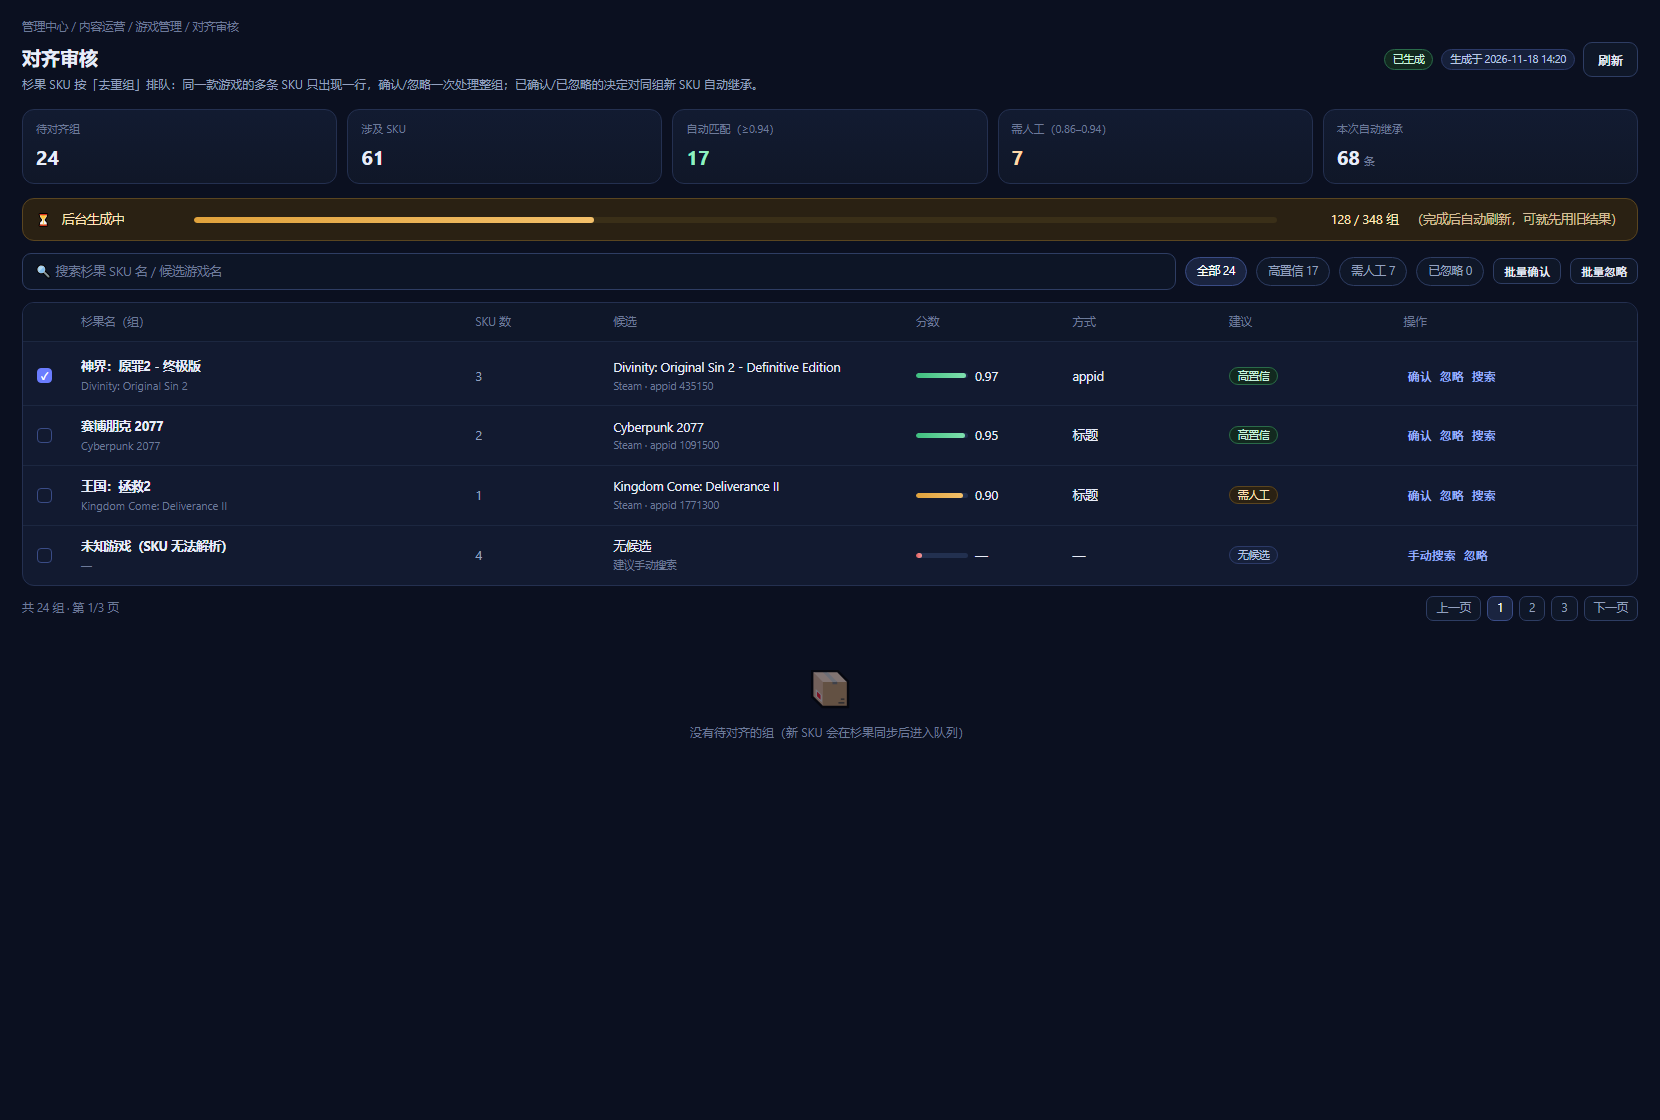
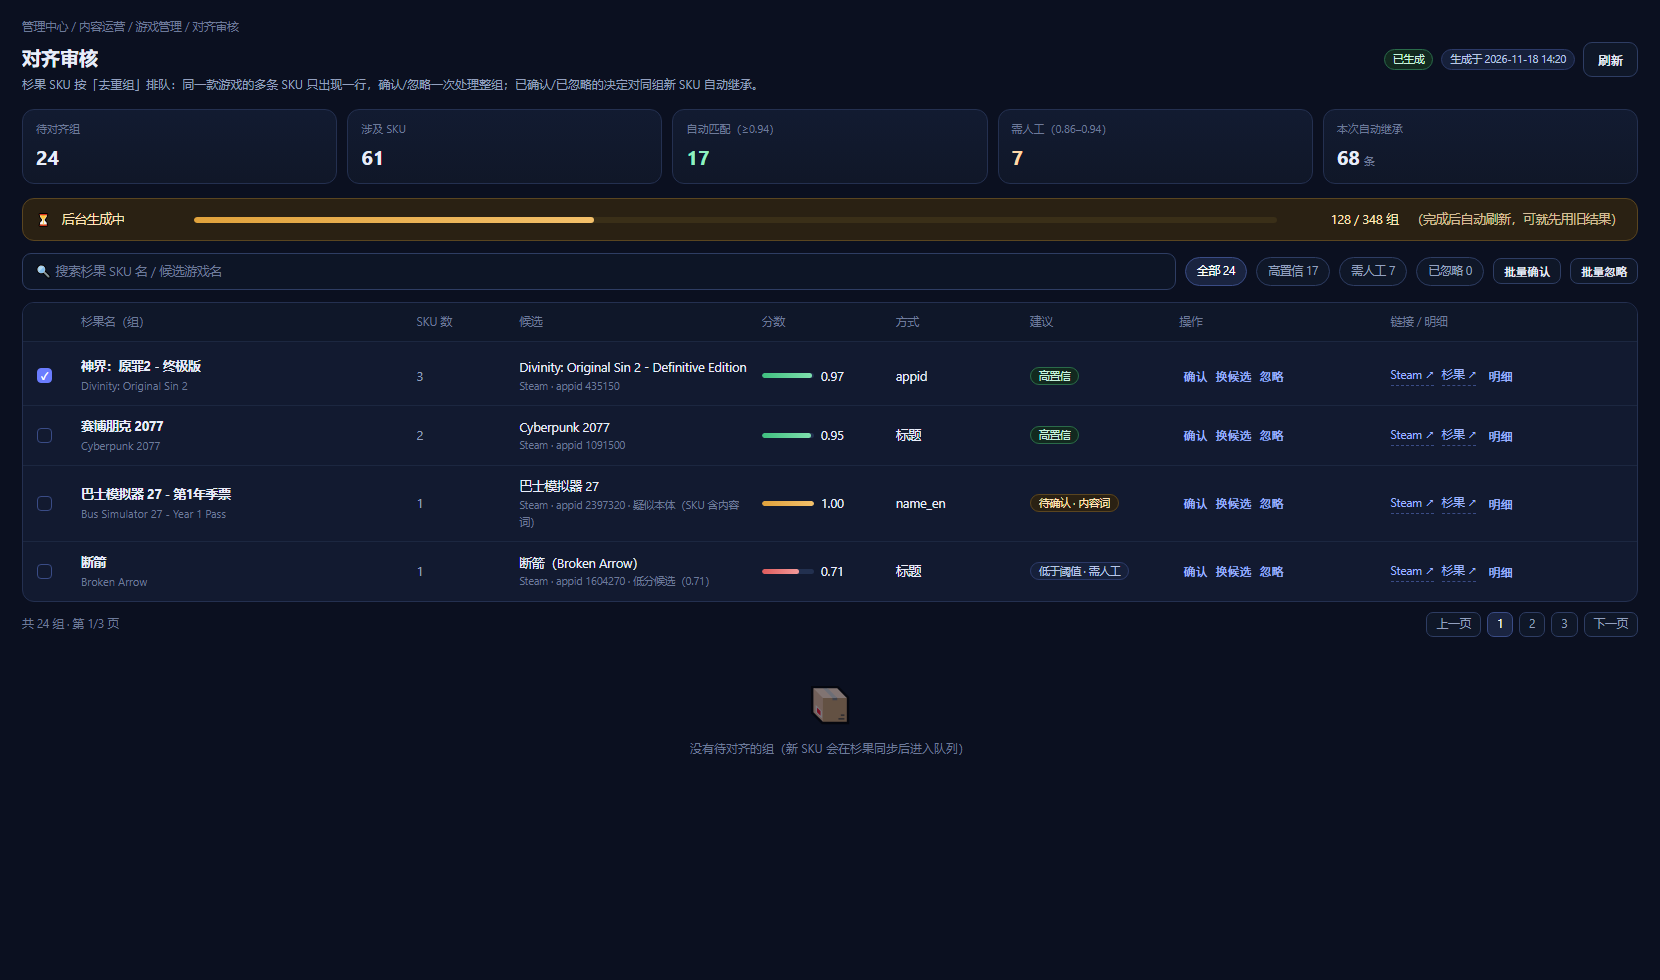
docs(design): 对齐审核改版补 Steam/杉果链接列 + 候选明细面板（供人工判定匹配）

diff --git a/docs/design/align-review-redesign-2026-11-18.html b/docs/design/align-review-redesign-2026-11-18.html
@@ -32,7 +32,7 @@
   .chip{border:1px solid var(--border-2);background:#0f1728;color:var(--fg-muted);border-radius:999px;padding:4px 11px;font-size:11.5px;cursor:pointer}
   .chip.on{background:#1a2440;color:#fff;border-color:#3a4c86}
   .table{background:var(--panel);border:1px solid var(--border);border-radius:12px;overflow:hidden}
-  .tr{display:grid;grid-template-columns:34px 2.1fr .7fr 1.6fr .8fr .8fr .9fr 1.2fr;gap:10px;align-items:center;padding:10px 14px;border-bottom:1px solid #1c2740;font-size:12.5px}
+  .tr{display:grid;grid-template-columns:34px 2.1fr .6fr 1.5fr .8fr .8fr .9fr 1.3fr 1.5fr;gap:10px;align-items:center;padding:10px 14px;border-bottom:1px solid #1c2740;font-size:12.5px}
   .tr.head{background:#0f1729;color:var(--fg-subtle);font-size:11.5px}
   .tr:last-child{border-bottom:0}
   .cb{width:15px;height:15px;border-radius:4px;border:1px solid #3a4c86;display:inline-block}
@@ -57,6 +57,7 @@
   .pg.on{background:#1a2440;color:#fff;border-color:#3a4c86}
   .empty{display:flex;flex-direction:column;align-items:center;justify-content:center;gap:8px;padding:38px 0;color:var(--fg-subtle);font-size:12px}
   .empty .ico{font-size:34px;opacity:.5}
+.links{display:flex;gap:8px;align-items:center}.lnk{color:#9fb4ff;font-size:11.5px;text-decoration:none;border-bottom:1px dashed #3a4c86}.lnk:hover{color:#c9d6ff}
 </style>
 </head>
 <body>
@@ -99,7 +100,7 @@
   </div>
 
   <div class="table">
-    <div class="tr head"><span></span><span>杉果名（组）</span><span>SKU 数</span><span>候选</span><span>分数</span><span>方式</span><span>建议</span><span>操作</span></div>
+        <div class="tr head"><span></span><span>杉果名（组）</span><span>SKU 数</span><span>候选</span><span>分数</span><span>方式</span><span>建议</span><span>操作</span><span>链接 / 明细</span></div>
     <div class="tr">
       <span class="cb on"></span>
       <div class="gname"><b>神界：原罪2 - 终极版</b><div class="en">Divinity: Original Sin 2</div></div>
@@ -108,7 +109,8 @@
       <div class="score"><div class="b"><i class="hi" style="width:97%"></i></div><span>0.97</span></div>
       <span>appid</span>
       <span class="sug"><span class="tag ok">高置信</span></span>
-      <span><button class="btn-link">确认</button><button class="btn-link">忽略</button><button class="btn-link">搜索</button></span>
+      <span><button class="btn-link">确认</button><button class="btn-link">换候选</button><button class="btn-link">忽略</button></span>
+      <span class="links"><a href="#" class="lnk">Steam ↗</a><a href="#" class="lnk">杉果 ↗</a><button class="btn-link">明细</button></span>
     </div>
     <div class="tr">
       <span class="cb"></span>
@@ -118,31 +120,34 @@
       <div class="score"><div class="b"><i class="hi" style="width:95%"></i></div><span>0.95</span></div>
       <span>标题</span>
       <span class="sug"><span class="tag ok">高置信</span></span>
-      <span><button class="btn-link">确认</button><button class="btn-link">忽略</button><button class="btn-link">搜索</button></span>
+      <span><button class="btn-link">确认</button><button class="btn-link">换候选</button><button class="btn-link">忽略</button></span>
+      <span class="links"><a href="#" class="lnk">Steam ↗</a><a href="#" class="lnk">杉果 ↗</a><button class="btn-link">明细</button></span>
     </div>
     <div class="tr">
       <span class="cb"></span>
-      <div class="gname"><b>王国：拯救2</b><div class="en">Kingdom Come: Deliverance II</div></div>
+      <div class="gname"><b>巴士模拟器 27 - 第1年季票</b><div class="en">Bus Simulator 27 - Year 1 Pass</div></div>
       <span class="sku">1</span>
-      <div class="cand"><div class="n">Kingdom Come: Deliverance II</div><div class="m">Steam · appid 1771300</div></div>
-      <div class="score"><div class="b"><i class="mid" style="width:90%"></i></div><span>0.90</span></div>
-      <span>标题</span>
-      <span class="sug"><span class="tag warn">需人工</span></span>
-      <span><button class="btn-link">确认</button><button class="btn-link">忽略</button><button class="btn-link">搜索</button></span>
+      <div class="cand"><div class="n">巴士模拟器 27</div><div class="m">Steam · appid 2397320 · 疑似本体（SKU 含内容词）</div></div>
+      <div class="score"><div class="b"><i class="mid" style="width:100%"></i></div><span>1.00</span></div>
+      <span>name_en</span>
+      <span class="sug"><span class="tag warn">待确认 · 内容词</span></span>
+      <span><button class="btn-link">确认</button><button class="btn-link">换候选</button><button class="btn-link">忽略</button></span>
+      <span class="links"><a href="#" class="lnk">Steam ↗</a><a href="#" class="lnk">杉果 ↗</a><button class="btn-link">明细</button></span>
     </div>
     <div class="tr">
       <span class="cb"></span>
-      <div class="gname"><b>未知游戏（SKU 无法解析）</b><div class="en">—</div></div>
-      <span class="sku">4</span>
-      <div class="cand"><div class="n">无候选</div><div class="m">建议手动搜索</div></div>
-      <div class="score"><div class="b"><i class="lo" style="width:12%"></i></div><span>—</span></div>
-      <span>—</span>
-      <span class="sug"><span class="tag">无候选</span></span>
-      <span><button class="btn-link">手动搜索</button><button class="btn-link">忽略</button></span>
-    </div>
-  </div>
+      <div class="gname"><b>断箭</b><div class="en">Broken Arrow</div></div>
+      <span class="sku">1</span>
+      <div class="cand"><div class="n">断箭（Broken Arrow）</div><div class="m">Steam · appid 1604270 · 低分候选（0.71）</div></div>
+      <div class="score"><div class="b"><i class="lo" style="width:71%"></i></div><span>0.71</span></div>
+      <span>标题</span>
+      <span class="sug"><span class="tag">低于阈值 · 需人工</span></span>
+      <span><button class="btn-link">确认</button><button class="btn-link">换候选</button><button class="btn-link">忽略</button></span>
+      <span class="links"><a href="#" class="lnk">Steam ↗</a><a href="#" class="lnk">杉果 ↗</a><button class="btn-link">明细</button></span>
+    </div></div>
   <div class="foot"><span>共 24 组 · 第 1/3 页</span><div class="pager"><span class="pg">上一页</span><span class="pg on">1</span><span class="pg">2</span><span class="pg">3</span><span class="pg">下一页</span></div></div>
 
   <div class="empty"><div class="ico">📦</div><div>没有待对齐的组（新 SKU 会在杉果同步后进入队列）</div></div>
 </body>
 </html>
+

diff --git a/docs/ALIGN-REVIEW-UI.md b/docs/ALIGN-REVIEW-UI.md
@@ -20,7 +20,8 @@
 | 统计卡（5） | 待对齐组 / 涉及 SKU / 自动匹配（≥0.94）/ 需人工（0.86–0.94）/ 本次自动继承条数 |
 | 进度横幅 | **仅生成中显示**：进度条 + `已完成 X / 共 Y 组` + 「可先用旧结果」提示；Y 在分组后立即上报，不再出现 0/0 |
 | 工具栏 | 搜索（杉果 SKU 名 / 候选游戏名）+ 筛选 chip（全部/高置信/需人工/无候选/已忽略）+ 批量确认/批量忽略 |
-| 表格 | 勾选 · 杉果名（组）+ 英文名 · SKU 数 · 候选（名称 + 来源/AppID）· 分数（色条：绿/黄/红）· 方式 · 建议（高置信/需人工/无候选）· 操作（确认/忽略/搜索） |
+| 表格 | 勾选 · 杉果名（组）+ 英文名 · SKU 数 · 候选（名称 + 来源/AppID + 疑似本体提示）· 分数（色条：绿/黄/红）· 方式 · 建议（高置信/需人工/无候选/内容词）· 操作（确认/换候选/忽略）· **链接/明细（Steam ↗、杉果 ↗、明细）** |
+| 明细面板 | 点「明细」展开该组全部候选（名称/AppID/分数/reasons/来源），**每个候选带 Steam 链接**；顶部带该组所有 SKU 的**杉果链接**（https://www.sonkwo.hk/sku/<skuId>），供人工判定 |
 | 分页 | 共 N 组 · 第 x/y 页 |
 | 空态 | 仅当**已完成且 0 组**时显示：「没有待对齐的组（新 SKU 会在杉果同步后进入队列）」 |
 
@@ -31,6 +32,8 @@
     **同时返回上一轮缓存的分页数据**（`stale: true`），前端可"先用旧结果"；
   - 已完成：返回 `{ groups, total, counts: { groups, skus, auto, manual, noCandidate, inherited }, generatedAt, cached }`；
 - 统计口径：`auto` = 分数 ≥0.94；`manual` = 0.86–0.94；`noCandidate` = 无候选；
+- **链接字段**：候选 `steam_appid` → `https://store.steampowered.com/app/<appid>/`；组内每个 `skuId` → `https://www.sonkwo.hk/sku/<skuId>`；
+- **明细数据**：`groups[].candidates` 返回该组 top-N 候选（score/method/reasons/appid/name），供「明细」面板渲染；
 - 前端：`AlignAdmin.vue` 按 demo 重排；生成中轮询 3s，完成后自动刷新；筛选/搜索前端先过滤（数据量小）。
 
 ## 4. 验收（demo 状态 ↔ 断言）
@@ -52,3 +55,5 @@
 1. 统计卡是否保留「本次自动继承」？（demo 保留，来自现有 `inherited` 字段）
 2. 表格是否需要「候选来源平台」（Steam/GOG 等）列？（当前候选只有 Steam 匹配）
 3. 批量操作是否需要「批量手动搜索」？（demo 未放，建议二期）
+
+
